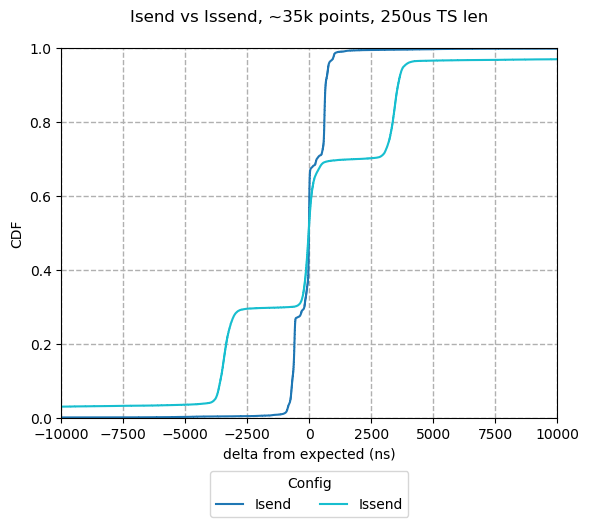
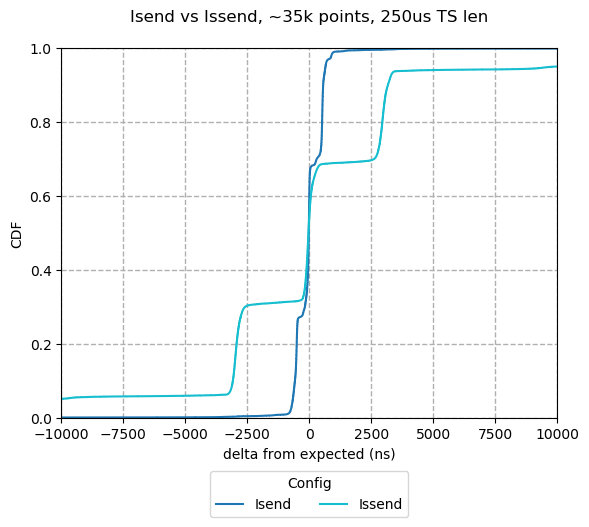
put things on the right numa domain

Changed region(s): [[0.5195, 0.0911, 0.9474, 0.3947], [0.0917, 0.5465, 0.5195, 0.8197], [0.5195, 0.5161, 0.5501, 0.5465]]

diff --git a/alt_src/bulk_mpi/src/control_host.cpp b/alt_src/bulk_mpi/src/control_host.cpp
@@ -117,7 +117,7 @@ void send_sync_packets() {
     if (rotor_state == 0) {
         MPI_Request to_dummy;
         int to_dummy_completed = 0;
-        MPI_Issend(send_buf, SYNC_PKT_SIZE, MPI_CHAR, dummy_host,
+        MPI_Isend(send_buf, SYNC_PKT_SIZE, MPI_CHAR, dummy_host,
                    0, sync_comm, &to_dummy);
         while(!to_dummy_completed)
             MPI_Test(&to_dummy, &to_dummy_completed, MPI_STATUS_IGNORE);
@@ -130,7 +130,7 @@ void send_sync_packets() {
 
         for(int i = 0; i < num_hosts; i++){
             int target = next_targets[i];
-            MPI_Issend(send_buf, SYNC_PKT_SIZE, MPI_CHAR, target,
+            MPI_Isend(send_buf, SYNC_PKT_SIZE, MPI_CHAR, target,
                        0, sync_comm, &to_endhosts[i]);
         }
 

diff --git a/alt_src/scripts/endhost_setup_control.py b/alt_src/scripts/endhost_setup_control.py
@@ -7,7 +7,7 @@ import sys
 
 DEFAULT_IRQ_PATH    = '/proc/irq'
 DEFAULT_AFF_FILE    = 'smp_affinity'
-DEFAULT_LCORE_IDS   = [13,33,14,34,15,35,16,36,17,37,18,38]
+DEFAULT_LCORE_IDS   = [11,51,13,53,15,55,17,57,19,59,21,61]
 DEFAULT_FREQ_FILE   ="/sys/devices/system/cpu/cpu%d/cpufreq/scaling_governor"
 
 LOWER_CPU_LIMIT=32
